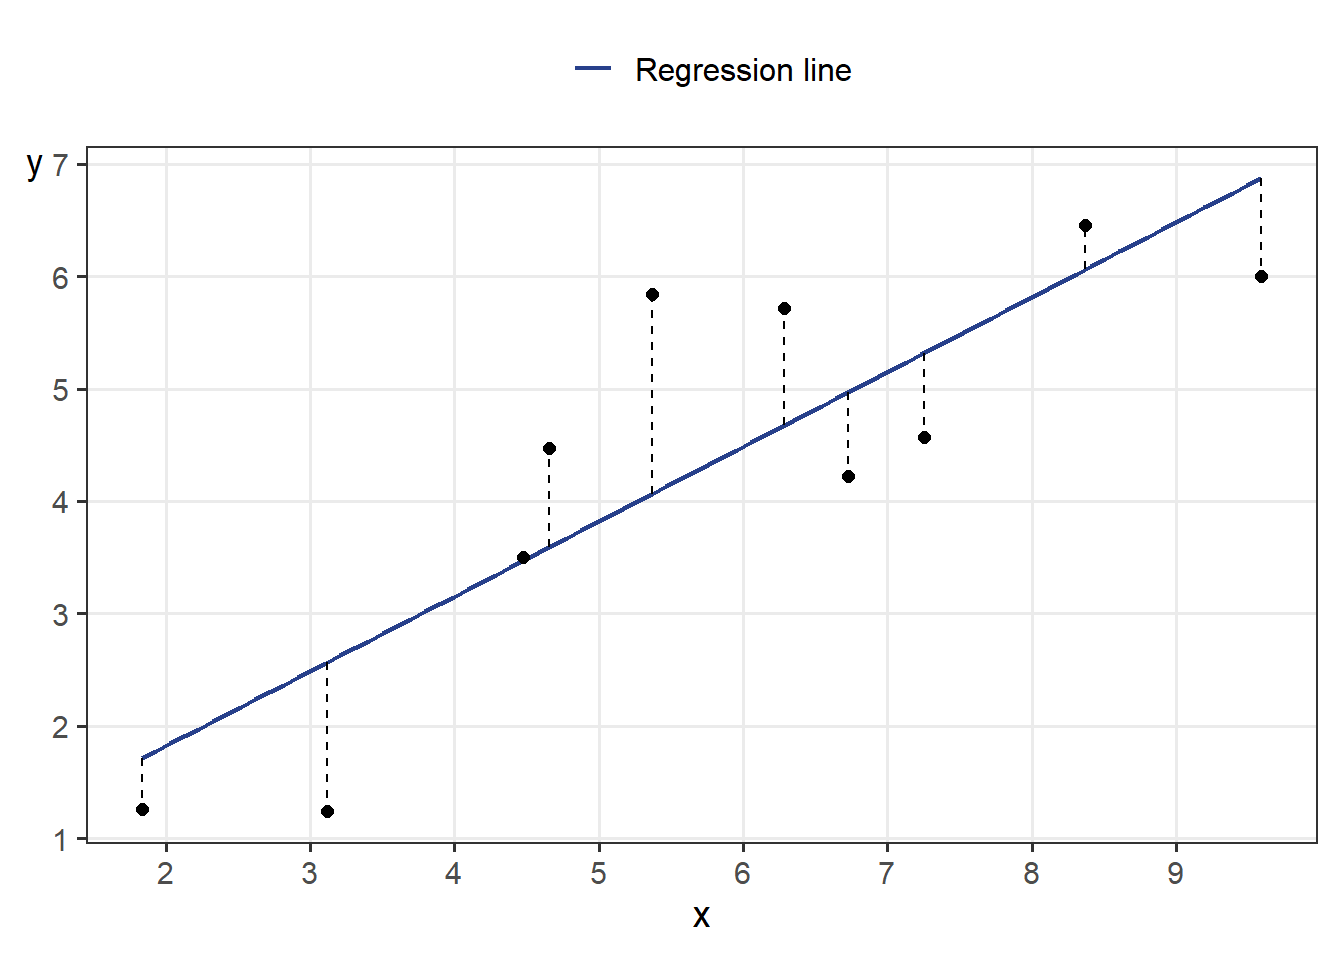
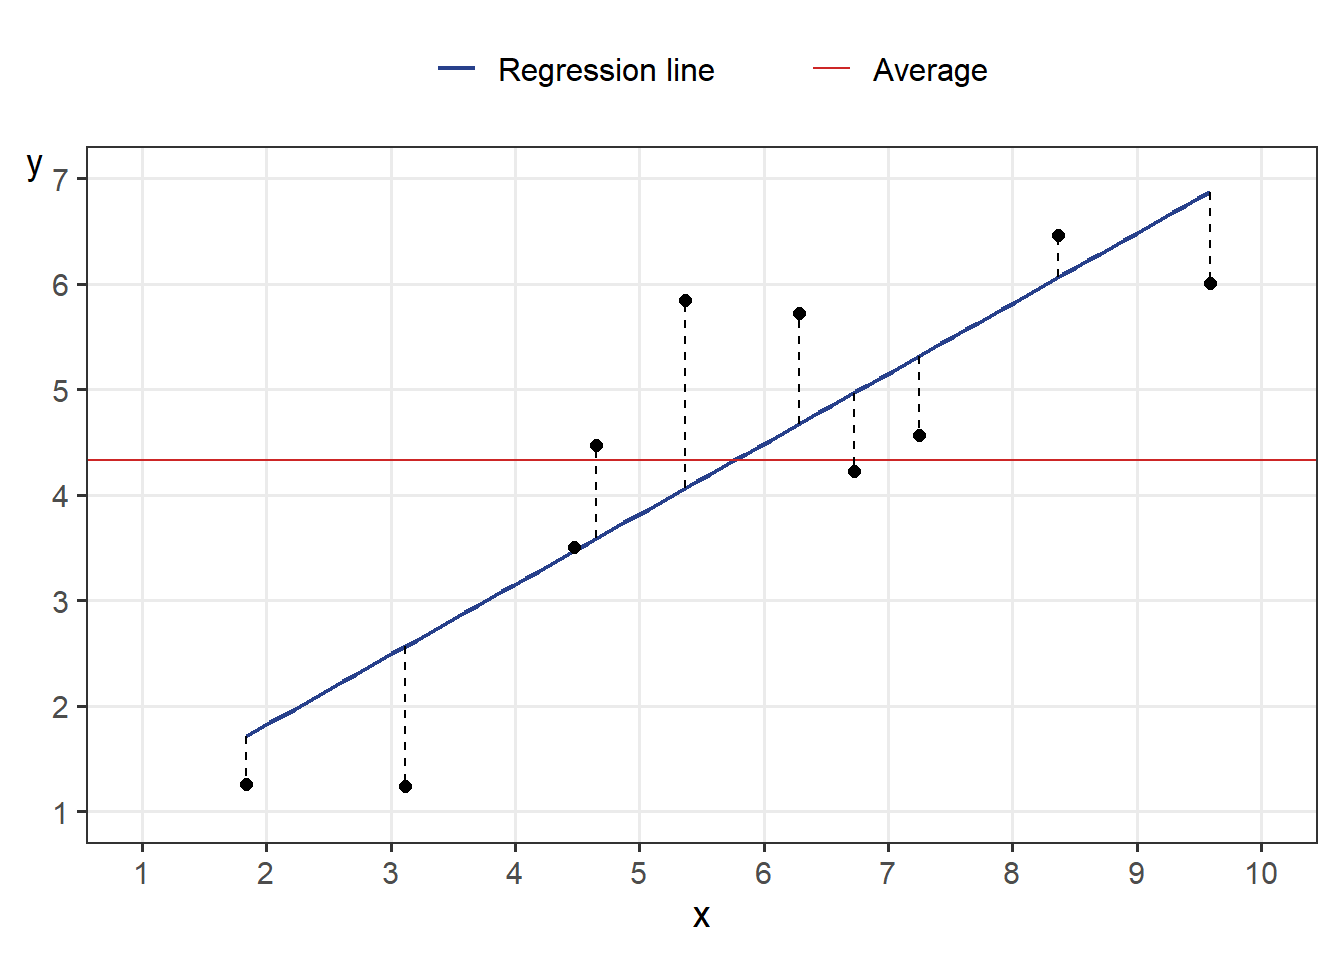
0021

diff --git a/docs/posts/0021-r2/index.html b/docs/posts/0021-r2/index.html
@@ -7,7 +7,7 @@
 <meta name="viewport" content="width=device-width, initial-scale=1.0, user-scalable=yes">
 
 <meta name="author" content="Vinícius Félix">
-<meta name="dcterms.date" content="2023-10-01">
+<meta name="dcterms.date" content="2024-04-16">
 
 <title>vbfelix - Intro to: R²</title>
 <style>
@@ -143,7 +143,7 @@ ul.task-list li input[type="checkbox"] {
     <div class="quarto-title column-body">
       <h1 class="title">Intro to: R²</h1>
                                 <div class="quarto-categories">
-                <div class="quarto-category">Getting Proof</div>
+                <div class="quarto-category">Intro to</div>
               </div>
                   </div>
   </div>
@@ -161,7 +161,7 @@ ul.task-list li input[type="checkbox"] {
       <div>
       <div class="quarto-title-meta-heading">Published</div>
       <div class="quarto-title-meta-contents">
-        <p class="date">October 1, 2023</p>
+        <p class="date">April 16, 2024</p>
       </div>
     </div>
     
@@ -180,6 +180,7 @@ ul.task-list li input[type="checkbox"] {
   <li><a href="#context" id="toc-context" class="nav-link active" data-scroll-target="#context">Context</a>
   <ul class="collapse">
   <li><a href="#section" id="toc-section" class="nav-link" data-scroll-target="#section"></a></li>
+  <li><a href="#when-r²-r²" id="toc-when-r²-r²" class="nav-link" data-scroll-target="#when-r²-r²">When R² = (r)²?</a></li>
   </ul></li>
   <li><a href="#adjusted-r²" id="toc-adjusted-r²" class="nav-link" data-scroll-target="#adjusted-r²">Adjusted R²</a></li>
   <li><a href="#why-it-can-be-a-poor-choice" id="toc-why-it-can-be-a-poor-choice" class="nav-link" data-scroll-target="#why-it-can-be-a-poor-choice">Why it can be a poor choice</a></li>
@@ -218,9 +219,9 @@ SS_{\mathrm{res}} = \sum_\limits{i=1}^{n}(y_i - \hat{y}_i)^2,
 <p><img src="index_files/figure-html/unnamed-chunk-1-1.png" class="img-fluid" width="672"></p>
 </div>
 </div>
-<p>The total sum of squares is given by: <span class="math display">\[
+<p>The total sum of squares is given by: <span id="eq-sstot"><span class="math display">\[
 SS_{\mathrm{tot}} = \sum_\limits{i=1}^{n}(y_i - \bar{y})^2,
-\]</span></p>
+\tag{3}\]</span></span></p>
 <p>where:</p>
 <ul>
 <li><p><span class="math inline">\(y_i\)</span> is the response variable;</p></li>
@@ -235,14 +236,146 @@ SS_{\mathrm{tot}} = \sum_\limits{i=1}^{n}(y_i - \bar{y})^2,
 <p>To put it simply, the coefficient measures the relative difference between the sum of squares of your model compared to a simplistic model (the average), where its values is considered good if it equals 1, meaning that the <span class="math inline">\(SS_{\mathrm{res}}\)</span> is close to 0 and is considered bad as it approaches 0, since the squared sum of the residuals would be close as using the average as a model.</p>
 <section id="section" class="level2">
 <h2 class="anchored" data-anchor-id="section"></h2>
-<p>When R² = (r)²</p>
+</section>
+<section id="when-r²-r²" class="level2">
+<h2 class="anchored" data-anchor-id="when-r²-r²">When R² = (r)²?</h2>
+<p>A well-known fact is that for simple linear regression, we have a direct relationship between the coefficient of determination and the Pearson linear correlation coefficient. To show the relationship between the <span class="math inline">\(R^2\)</span> and <span class="math inline">\(r\)</span> , first we have that</p>
+<p><span id="eq-sstot-ssres-ssreg"><span class="math display">\[
+SS_{\mathrm{tot}} = SS_{\mathrm{res}} + SS_{\mathrm{reg}}.  
+\tag{4}\]</span></span></p>
+<p>where <span class="math inline">\(SS_{\mathrm{reg}}\)</span> is the sum of squares due to regression, also known as the explained sum of squares, giving by:</p>
+<p><span id="eq-ssreg"><span class="math display">\[
+SS_{\mathrm{reg}} = \sum_\limits{i=1}^{n}(\hat{y}_i - \bar{y})^2.
+\tag{5}\]</span></span></p>
+<p>Or graphically,</p>
+<div class="cell">
+<div class="cell-output-display">
+<p><img src="index_files/figure-html/unnamed-chunk-3-1.png" class="img-fluid" width="672"></p>
+</div>
+</div>
+<p>Then, applying the <a href="#eq-sstot-ssres-ssreg">Equation&nbsp;4</a> to the <a href="#eq-r2">Equation&nbsp;1</a> :</p>
+<p><span id="eq-r2-to-ssreg"><span class="math display">\[
+\begin{align}
+R^2
+&amp;=  1- \frac{SS_{\mathrm{res}}}{SS_{\mathrm{tot}}}\\
+&amp;=  \frac{SS_{\mathrm{tot}}}{SS_{\mathrm{tot}}}- \frac{SS_{\mathrm{res}}}
+{SS_{\mathrm{tot}}}\\
+&amp;=  \frac{SS_{\mathrm{tot}} - SS_{\mathrm{res}}}{SS_{\mathrm{tot}}}\\
+&amp;=  \frac{SS_{\mathrm{reg}} + SS_{\mathrm{res} } - SS_{\mathrm{res}}}{SS_{\mathrm{tot}}}\\
+&amp;=  \frac{SS_{\mathrm{reg}}}{SS_{\mathrm{tot}}}.\\
+\end{align}
+\tag{6}\]</span></span></p>
+<p>So with the <a href="#eq-ssreg">Equation&nbsp;5</a> applied to the <a href="#eq-r2-to-ssreg">Equation&nbsp;6</a>, we have that</p>
+<p><span id="eq-r2-as-ssreg"><span class="math display">\[ \begin{align} R^2 &amp;=  \frac{SS_{\mathrm{reg}}}{SS_{\mathrm{tot}}}\\ &amp;=  \frac{\sum_\limits{i=1}^{n}(\hat{y}_i - \bar{y})^2}{ \sum_\limits{i=1}^{n}(y_i - \bar{y})^2}. \end{align}  \tag{7}\]</span></span></p>
+<p>For a simple linear regression, we can compute the fitted value as</p>
+<p><span id="eq-pred-value"><span class="math display">\[
+\hat{y}_i = \hat{\beta}_0 + \hat{\beta}_1x_i,
+\tag{8}\]</span></span></p>
+<p>where:</p>
+<ul>
+<li><p><span class="math inline">\(\hat{\beta}_0\)</span> is the estimated value of the intercept;</p></li>
+<li><p><span class="math inline">\(\hat{\beta}_1\)</span> is the estimated value of the slope coefficient;</p></li>
+<li><p><span class="math inline">\(x_i\)</span> is the explanatory variable.</p></li>
+</ul>
+<p>Applying the <a href="#eq-pred-value">Equation&nbsp;8</a> in the <a href="#eq-r2-as-ssreg">Equation&nbsp;7</a> we have that</p>
+<p><span id="eq-r2-as-yhat"><span class="math display">\[
+\begin{align}
+R^2
+&amp;=  \frac{\sum_\limits{i=1}^{n}(\hat{y}_i - \bar{y})^2}{ \sum_\limits{i=1}^{n}(y_i - \bar{y})^2}\\
+&amp;=  \frac{\sum_\limits{i=1}^{n}(\hat{\beta}_0 + \hat{\beta}_1x_i - \bar{y})^2}{ \sum_\limits{i=1}^{n}(y_i - \bar{y})^2}.
+\end{align}
+\tag{9}\]</span></span></p>
+<p>We also have a result for the ordinary least squares of the simple linear regresson that:</p>
+<p><span id="eq-b0"><span class="math display">\[
+\hat{\beta}_0 = \bar{y} - \hat{\beta}_1\bar{x}.
+\tag{10}\]</span></span></p>
+<p>So the <a href="#eq-b0">Equation&nbsp;10</a> applied to the <a href="#eq-r2-as-yhat">Equation&nbsp;9</a> results in:</p>
+<p><span id="eq-r2-as-b0"><span class="math display">\[
+\begin{align}
+R^2
+&amp;=  \frac{\sum_\limits{i=1}^{n}(\hat{\beta}_0 + \hat{\beta}_1x_i - \bar{y})^2}{ \sum_\limits{i=1}^{n}(y_i - \bar{y})^2}\\
+&amp;=  \frac{\sum_\limits{i=1}^{n}(\bar{y} - \hat{\beta}_1\bar{x} + \hat{\beta}_1x_i - \bar{y})^2}{ \sum_\limits{i=1}^{n}(y_i - \bar{y})^2}\\
+&amp;=  \frac{\sum_\limits{i=1}^{n}(- \hat{\beta}_1\bar{x} + \hat{\beta}_1x_i)^2}{ \sum_\limits{i=1}^{n}(y_i - \bar{y})^2}\\
+&amp;=  \frac{\sum_\limits{i=1}^{n}[\hat{\beta}_1 (x_i- \bar{x})]^2}{ \sum_\limits{i=1}^{n}(y_i - \bar{y})^2}\\
+&amp;=  \frac{\sum_\limits{i=1}^{n}\hat{\beta}^2_1(x_i- \bar{x})^2}{ \sum_\limits{i=1}^{n}(y_i - \bar{y})^2}\\
+&amp;=  \hat{\beta}^2_1\frac{\sum_\limits{i=1}^{n}(x_i- \bar{x})^2}{ \sum_\limits{i=1}^{n}(y_i - \bar{y})^2}.
+\end{align}
+\tag{11}\]</span></span></p>
+<p>Since we have that the variance of <span class="math inline">\(x\)</span> is given by</p>
+<p><span id="eq-sx"><span class="math display">\[
+s^2_x = \frac{1}{n-1}\sum_\limits{i=1}^{n}(x_i- \bar{x})^2.
+\tag{12}\]</span></span></p>
+<p>We can divide both terms of the <a href="#eq-r2-as-b0">Equation&nbsp;11</a> by <span class="math inline">\((n-1)\)</span> and usethe <a href="#eq-sx">Equation&nbsp;12</a> to rewrite it as</p>
+<p><span id="eq-r2-as-sx-sy"><span class="math display">\[
+\begin{align}
+R^2
+&amp;=  \hat{\beta}^2_1\frac{\frac{1}{n-1}\sum_\limits{i=1}^{n}(x_i- \bar{x})^2}{\frac{1}{n-1} \sum_\limits{i=1}^{n}(y_i - \bar{y})^2}\\
+&amp;=  \hat{\beta}^2_1\frac{s^2_x}{s^2_y}\\
+&amp;=  \left(\hat{\beta}_1\frac{s_x}{s_y}\right)^2.\\
+\end{align}
+\tag{13}\]</span></span></p>
+<p>Such as we have a result for <span class="math inline">\(\hat{\beta}_0\)</span> in the <a href="#eq-b0">Equation&nbsp;10</a>, we also have one for <span class="math inline">\(\hat{\beta}_1\)</span></p>
+<p><span id="eq-b1"><span class="math display">\[
+\hat{\beta}_1 = \frac{s_{xy}}{s^2x},
+\tag{14}\]</span></span></p>
+<p>where</p>
+<ul>
+<li><span class="math inline">\(s_{xy}\)</span> is the covariance between <span class="math inline">\(x\)</span> and <span class="math inline">\(y\)</span>.</li>
+</ul>
+<p>Finally, applying the <a href="#eq-b1">Equation&nbsp;14</a> to the <a href="#eq-r2-as-sx-sy">Equation&nbsp;13</a></p>
+<p><span id="eq-r2-as-r2"><span class="math display">\[
+\begin{align}
+R^2
+&amp;=  \left(\hat{\beta}_1\frac{s_x}{s_y}\right)^2\\
+&amp;=  \left(\frac{s_{xy}}{s^2_x}\frac{s_x}{s_y}\right)^2\\
+&amp;=  \left(\frac{s_{xy}}{s_xs_y}\right)^2\\
+&amp;=  (r)^2.\\
+\end{align}
+\tag{15}\]</span></span></p>
+<p>At last in <a href="#eq-r2-as-r2">Equation&nbsp;15</a> we can show that for the simple linear regression that <span class="math inline">\(R^2 = (r)^2\)</span>.</p>
 </section>
 </section>
 <section id="adjusted-r²" class="level1">
 <h1>Adjusted R²</h1>
+<p>Another version of R², is the ajusted version, where it tries to correct the overestimation, by penalizing the number of variables used in the model.</p>
+<p>To attempt that, instead of only the sum of squares we divide the terms by their respectives degrees of freedom:</p>
+<p><span id="eq-s2-tot"><span class="math display">\[
+\frac{SS_{\mathrm{tot}}}{n-1},
+\tag{16}\]</span></span></p>
+<p>and</p>
+<p><span id="eq-s2-res"><span class="math display">\[
+\frac{SS_{\mathrm{res}}}{n-p-1},
+\tag{17}\]</span></span></p>
+<p>where</p>
+<ul>
+<li><span class="math inline">\(p\)</span> is the number of explanatory variables.</li>
+</ul>
+<p>Then using both <a href="#eq-s2-tot">Equation&nbsp;16</a> and <a href="#eq-s2-res">Equation&nbsp;17</a> applied to <a href="#eq-r2">Equation&nbsp;1</a> we can compute the adjusted version:</p>
+<p><span id="eq-r2-adj"><span class="math display">\[
+\begin{align}
+R^2_{\mathrm{adj}}
+&amp;= 1 - \frac{\frac{\sum_\limits{i=1}^{n}(y_i - \hat{y}_i)^2}{n-p-1}}{\frac{\sum_\limits{i=1}^{n}(y_i - \bar{y})^2}{n-1}}\\
+&amp;= 1 - \left(\frac{\sum_\limits{i=1}^{n}(y_i - \hat{y}_i)^2}{\sum_\limits{i=1}^{n}(y_i - \bar{y})^2}\right) \left(\frac{n-1}{n-p-1}\right)\\
+&amp;= 1 - \left(1- R^2\right) \left(\frac{n-1}{n-p-1}\right).
+\end{align}
+\tag{18}\]</span></span></p>
 </section>
 <section id="why-it-can-be-a-poor-choice" class="level1">
 <h1>Why it can be a poor choice</h1>
+<p>Despite being one of the most well-known metrics in modeling, it is also one of the most criticized, for a variety of reasons, such as:</p>
+<ul>
+<li><p>Can be arbitrarily low even if the model follows the assumptions and makes sense; similarly, it can be arbitrarily close to 1 when the model is erroneous. A good example is when nonlinear models achieve a high R² for linear data;</p></li>
+<li><p>Sensitivity to the number of predictors, which increases with the number of predictors, even if the predictors are irrelevant to the outcome. As we saw earlier,. the adjusted version helps to mitigate this issue;</p></li>
+<li><p>Because it relies primarily on the mean, outliers can have a significant impact;</p></li>
+<li><p>A poor prediction indicator because it compares the error of your model to the error of the average;</p></li>
+<li><p>It cannot be compared across datasets since it can only be compared when several models are fitted to the same data set with the same untransformed response variable.</p></li>
+</ul>
+<p><strong>For more details on the points above:</strong></p>
+<ul>
+<li><p><a href="https://www.stat.cmu.edu/~cshalizi/mreg/15/lectures/10/lecture-10.pdf">Lecture 10: F-Tests, R², and Other Distractions</a></p></li>
+<li><p><a href="https://www.quantics.co.uk/blog/r-we-squared-yet-why-r-squared-is-a-poor-metric-for-goodness-of-fit/"><em>Why</em> is R<sup>2</sup> not a measure of goodness-of-fit?</a></p></li>
+<li><p><a href="https://getrecast.com/r-squared/">Why R-squared is worse than useless</a></p></li>
+</ul>
 
 
 </section>

diff --git a/docs/index.html b/docs/index.html
@@ -185,7 +185,7 @@ ul.task-list li input[type="checkbox"] {
   <li><a href="#section" id="toc-section" class="nav-link active" data-scroll-target="#section"></a></li>
   </ul>
 </nav>
-    <h5 class="quarto-listing-category-title">Categories</h5><div class="quarto-listing-category category-default"><div class="category" data-category="">All <span class="quarto-category-count">(21)</span></div><div class="category" data-category="An analysis of">An analysis of <span class="quarto-category-count">(2)</span></div><div class="category" data-category="Getting Proof">Getting Proof <span class="quarto-category-count">(2)</span></div><div class="category" data-category="Intro to">Intro to <span class="quarto-category-count">(14)</span></div><div class="category" data-category="Some notes">Some notes <span class="quarto-category-count">(1)</span></div><div class="category" data-category="Unveiling the pages">Unveiling the pages <span class="quarto-category-count">(2)</span></div></div></div>
+    <h5 class="quarto-listing-category-title">Categories</h5><div class="quarto-listing-category category-default"><div class="category" data-category="">All <span class="quarto-category-count">(21)</span></div><div class="category" data-category="An analysis of">An analysis of <span class="quarto-category-count">(2)</span></div><div class="category" data-category="Getting Proof">Getting Proof <span class="quarto-category-count">(1)</span></div><div class="category" data-category="Intro to">Intro to <span class="quarto-category-count">(15)</span></div><div class="category" data-category="Some notes">Some notes <span class="quarto-category-count">(1)</span></div><div class="category" data-category="Unveiling the pages">Unveiling the pages <span class="quarto-category-count">(2)</span></div></div></div>
 <!-- main -->
 <div class="quarto-about-jolla column-page-left">
  <main class="content quarto-banner-title-block column-page-left" id="quarto-document-content">
@@ -197,7 +197,41 @@ ul.task-list li input[type="checkbox"] {
 </section>
 <div class="quarto-listing quarto-listing-container-default" id="listing-listing">
 <div class="list quarto-listing-default">
-<div class="quarto-post image-right" data-index="0" data-categories="Some notes" data-listing-date-sort="1698548400000" data-listing-file-modified-sort="1702079266893" data-listing-date-modified-sort="NaN" data-listing-reading-time-sort="7">
+<div class="quarto-post image-right" data-index="0" data-categories="Intro to" data-listing-date-sort="1713236400000" data-listing-file-modified-sort="1713312832428" data-listing-date-modified-sort="NaN" data-listing-reading-time-sort="6">
+<div class="thumbnail">
+<p><a href="./posts/0021-r2/index.html"> <img src="./posts/0021-r2/banner.png" class="thumbnail-image"> </a></p>
+</div>
+<div class="body">
+<a href="./posts/0021-r2/index.html">
+<h3 class="no-anchor listing-title">
+Intro to: R²
+</h3>
+<div class="listing-subtitle">
+</div>
+</a>
+<div class="listing-categories">
+<div class="listing-category" onclick="window.quartoListingCategory('Intro to'); return false;">
+Intro to
+</div>
+</div>
+<a href="./posts/0021-r2/index.html">
+<div class="listing-description">
+In this post, we explore the infamous metric R².
+</div>
+</a>
+</div>
+<div class="metadata">
+<a href="./posts/0021-r2/index.html">
+<div class="listing-date">
+Apr 16, 2024
+</div>
+<div class="listing-author">
+Vinícius Félix
+</div>
+</a>
+</div>
+</div>
+<div class="quarto-post image-right" data-index="1" data-categories="Some notes" data-listing-date-sort="1698548400000" data-listing-file-modified-sort="1702079266893" data-listing-date-modified-sort="NaN" data-listing-reading-time-sort="7">
 <div class="thumbnail">
 <p><a href="./posts/0020-better-presentations/index.html"> <img src="./posts/0020-better-presentations/banner.png" class="thumbnail-image"> </a></p>
 </div>
@@ -231,7 +265,7 @@ Vinícius Félix
 </a>
 </div>
 </div>
-<div class="quarto-post image-right" data-index="1" data-categories="Getting Proof" data-listing-date-sort="1696129200000" data-listing-file-modified-sort="1702079266891" data-listing-date-modified-sort="NaN" data-listing-reading-time-sort="5">
+<div class="quarto-post image-right" data-index="2" data-categories="Getting Proof" data-listing-date-sort="1696129200000" data-listing-file-modified-sort="1702079266891" data-listing-date-modified-sort="NaN" data-listing-reading-time-sort="5">
 <div class="thumbnail">
 <p><a href="./posts/0019-quadratic-equation/index.html"> <img src="./posts/0019-quadratic-equation/banner.png" class="thumbnail-image"> </a></p>
 </div>
@@ -256,40 +290,6 @@ In this post, we explore the root of the quadratic equation, i.e., Bhaskara form
 </div>
 <div class="metadata">
 <a href="./posts/0019-quadratic-equation/index.html">
-<div class="listing-date">
-Oct 1, 2023
-</div>
-<div class="listing-author">
-Vinícius Félix
-</div>
-</a>
-</div>
-</div>
-<div class="quarto-post image-right" data-index="2" data-categories="Getting Proof" data-listing-date-sort="1696129200000" data-listing-file-modified-sort="1713125738168" data-listing-date-modified-sort="NaN" data-listing-reading-time-sort="2">
-<div class="thumbnail">
-<p><a href="./posts/0021-r2/index.html"> <img src="./posts/0021-r2/banner.png" class="thumbnail-image"> </a></p>
-</div>
-<div class="body">
-<a href="./posts/0021-r2/index.html">
-<h3 class="no-anchor listing-title">
-Intro to: R²
-</h3>
-<div class="listing-subtitle">
-</div>
-</a>
-<div class="listing-categories">
-<div class="listing-category" onclick="window.quartoListingCategory('Getting Proof'); return false;">
-Getting Proof
-</div>
-</div>
-<a href="./posts/0021-r2/index.html">
-<div class="listing-description">
-In this post, we explore the infamous metric R².
-</div>
-</a>
-</div>
-<div class="metadata">
-<a href="./posts/0021-r2/index.html">
 <div class="listing-date">
 Oct 1, 2023
 </div>
